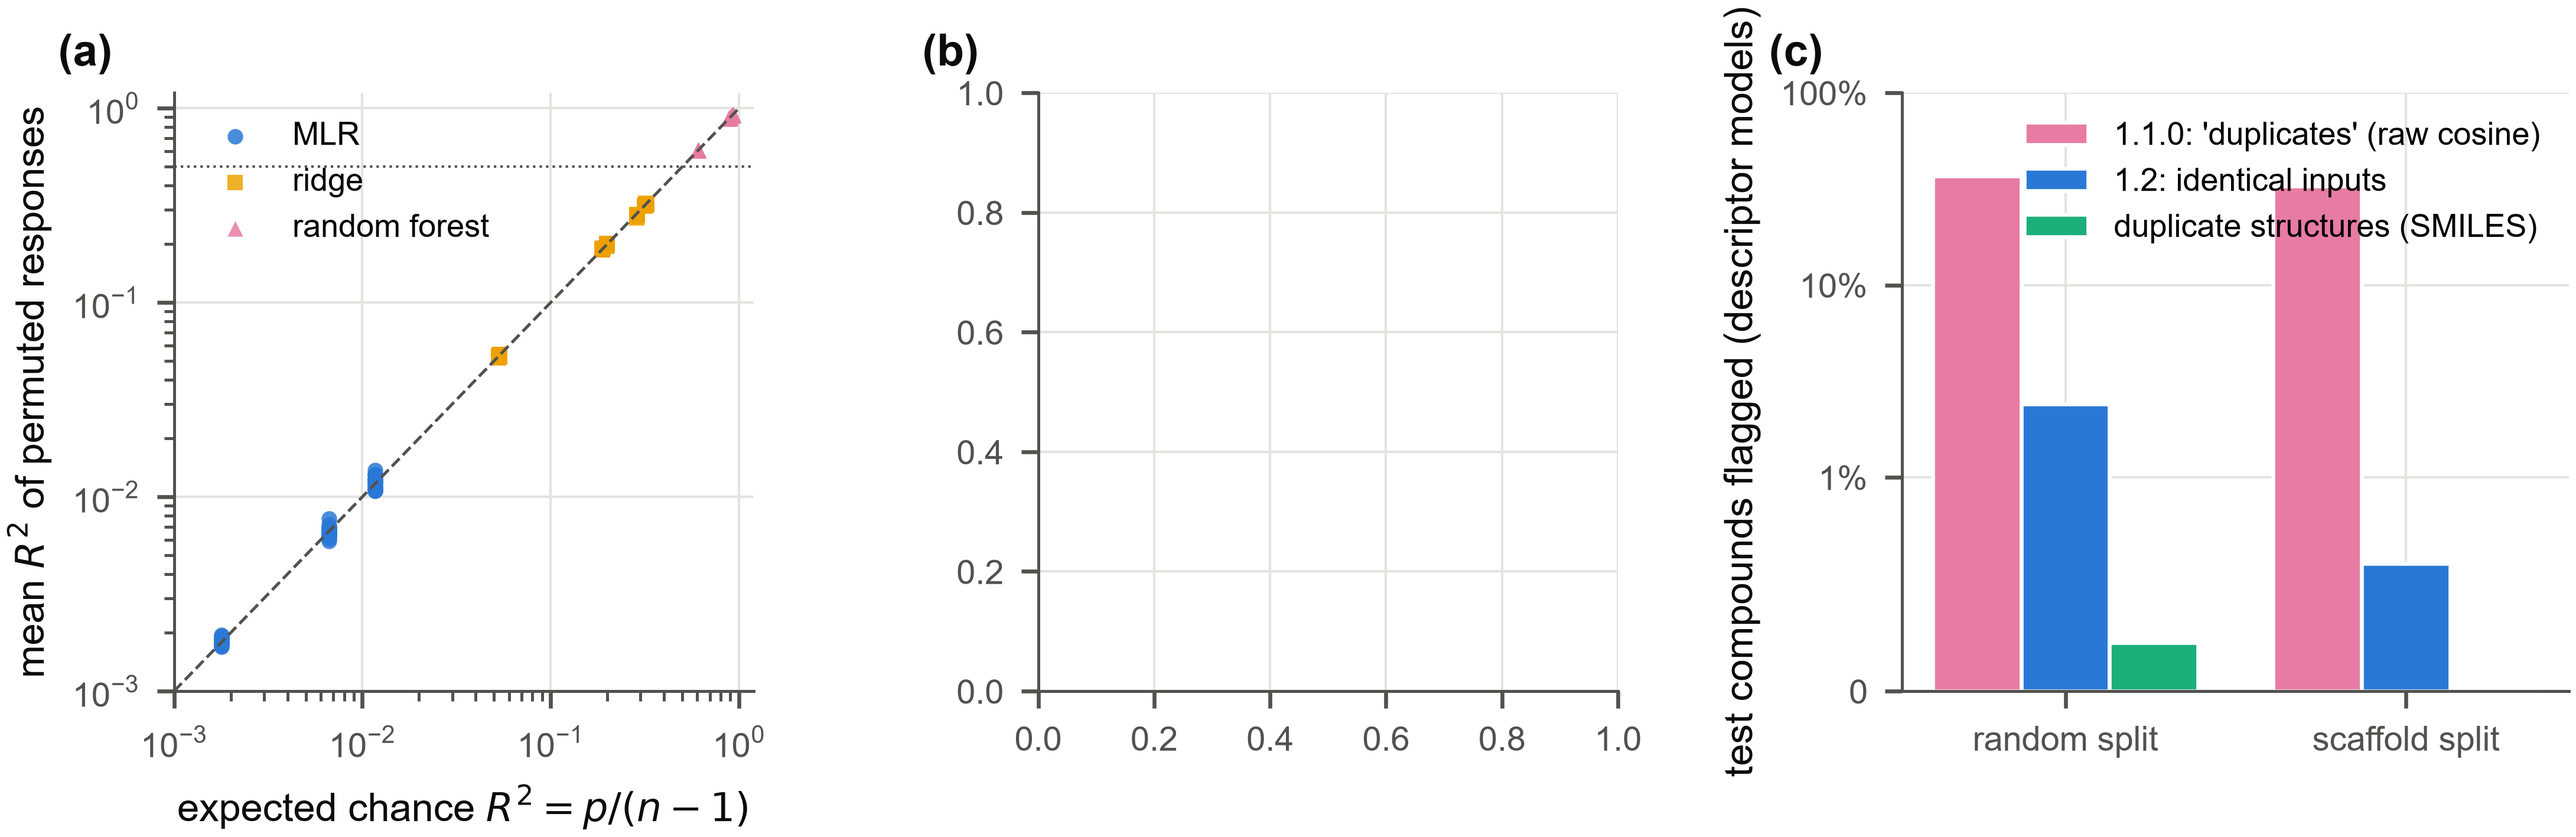
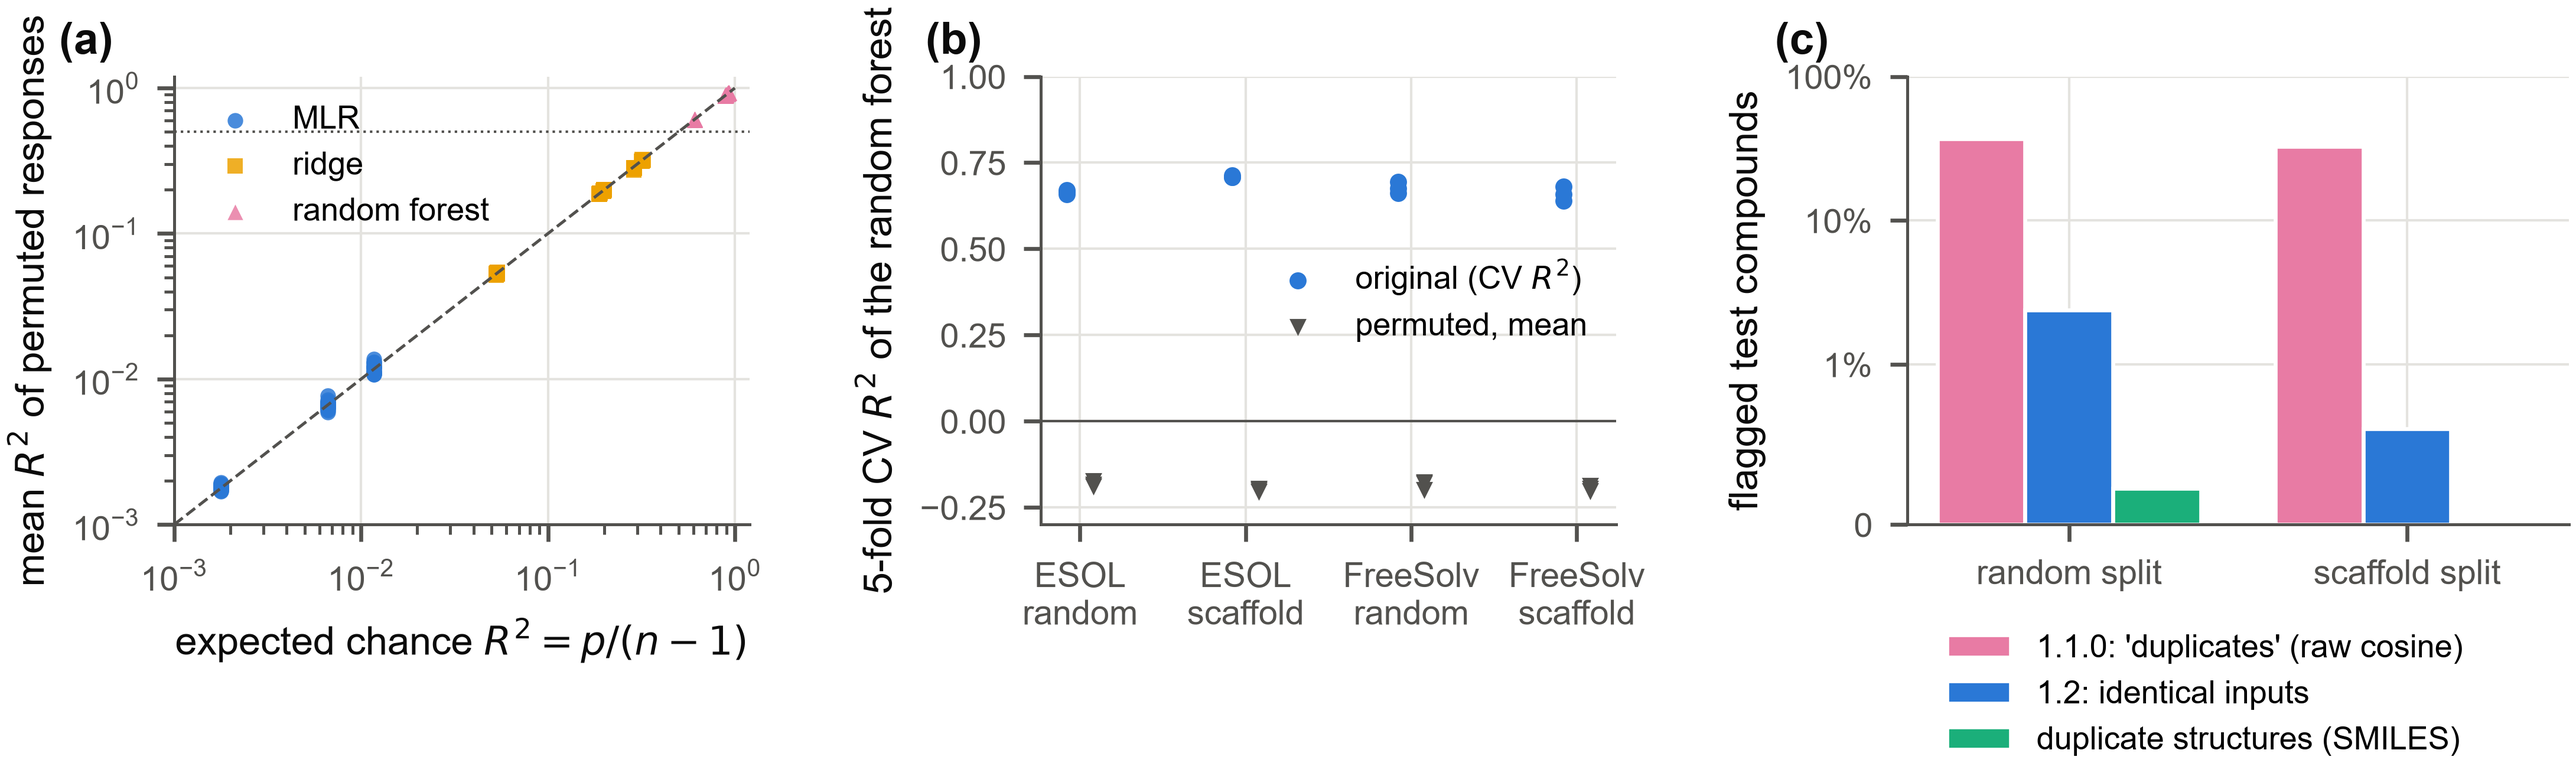
validation: model-based Y-randomization of the random forests, SI tables, final figures

diff --git a/validation/tables/table_s_yrand_rf.tex b/validation/tables/table_s_yrand_rf.tex
@@ -1,0 +1,18 @@
+\begin{tabular}{llrrrrr}
+\toprule
+Dataset & split & seed & CV $R^2$ & permuted mean & permuted max & cR$^2_p$ \\
+\midrule
+ESOL & random & 0 & 0.658 & -0.185 & -0.107 & 0.658 \\
+ESOL & random & 1 & 0.671 & -0.174 & -0.122 & 0.671 \\
+ESOL & random & 2 & 0.665 & -0.190 & -0.117 & 0.665 \\
+ESOL & scaffold & 0 & 0.707 & -0.205 & -0.148 & 0.707 \\
+ESOL & scaffold & 1 & 0.712 & -0.200 & -0.119 & 0.712 \\
+ESOL & scaffold & 2 & 0.708 & -0.197 & -0.099 & 0.708 \\
+FreeSolv & random & 0 & 0.675 & -0.178 & -0.104 & 0.675 \\
+FreeSolv & random & 1 & 0.661 & -0.200 & -0.117 & 0.661 \\
+FreeSolv & random & 2 & 0.695 & -0.181 & -0.079 & 0.695 \\
+FreeSolv & scaffold & 0 & 0.681 & -0.204 & -0.069 & 0.681 \\
+FreeSolv & scaffold & 1 & 0.658 & -0.196 & -0.061 & 0.658 \\
+FreeSolv & scaffold & 2 & 0.640 & -0.189 & -0.136 & 0.640 \\
+\bottomrule
+\end{tabular}

diff --git a/validation/make_figures.py b/validation/make_figures.py
@@ -185,8 +185,8 @@ def fig_yrand_leak(d, est):
     c.set_yticks([0, 0.01, 0.1, 1], ["0", "1%", "10%", "100%"])
     c.minorticks_off()
     c.set_xticks(x, ["random split", "scaffold split"])
-    c.set_ylabel("test compounds flagged (descriptor models)")
-    c.legend(loc="upper right")
+    c.set_ylabel("flagged test compounds")
+    c.legend(loc="upper center", bbox_to_anchor=(0.45, -0.18), ncol=1)
     panel(c, "c", -0.2)
     fig.tight_layout(w_pad=1.8)
     save(fig, "fig4_yrand_leakage")
